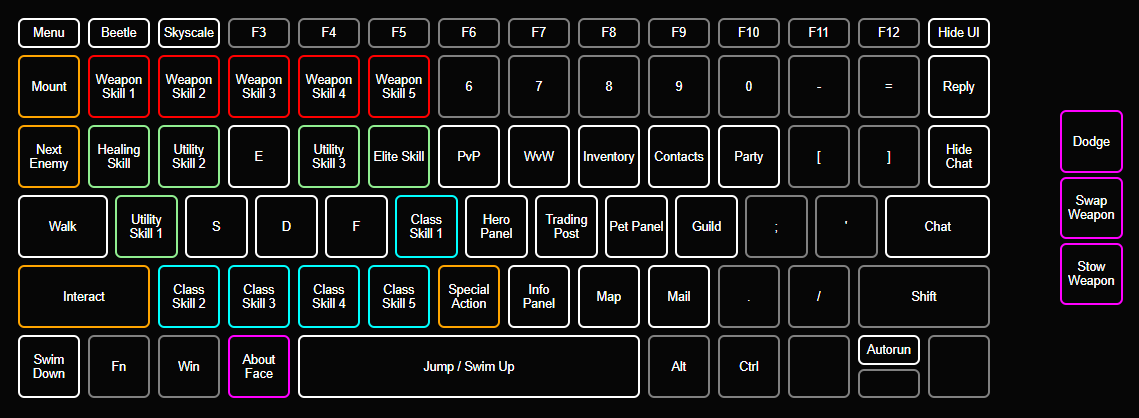
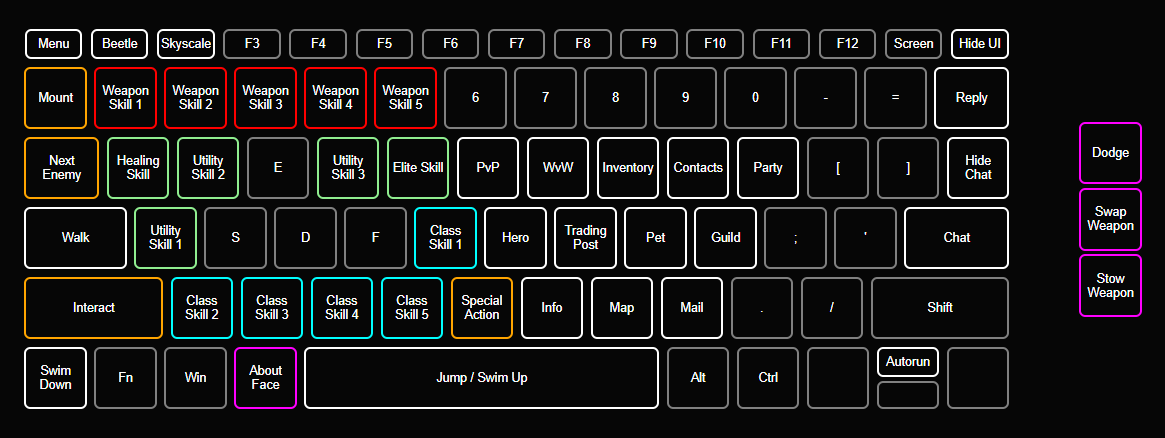
Theme, Tab size, and Screen key

Changed region(s): [[0.0, 0.0311, 0.8911, 0.9641], [0.9219, 0.2488, 1.0, 0.7464], [0.7989, 0.6842, 0.8297, 0.7153]]

diff --git a/index.html b/index.html
@@ -27,6 +27,7 @@
                 <div class="key" id="f10" onclick="changeColor(this)">f10</div>
                 <div class="key" id="f11" onclick="changeColor(this)">f11</div>
                 <div class="key" id="f12" onclick="changeColor(this)">f12</div>
+                <div class="key" id="print-screen" onclick="changeColor(this)">screen</div>
                 <div class="key" id="del" onclick="changeColor(this)">del</div>
             </div>
 
@@ -119,7 +120,7 @@
         </div>
     </div>
 
-    <div id="palette">
+    <footer>
         <div class="row">
             <div class="control" id="red" onclick="setColor('red')"></div>
             <div class="control" id="orange" onclick="setColor('orange')"></div>
@@ -127,10 +128,12 @@
             <div class="control" id="green" onclick="setColor('lightgreen')"></div>
             <div class="control" id="blue" onclick="setColor('aqua')"></div>
             <div class="control" id="pink" onclick="setColor('fuchsia')"></div>
-            <div class="control" id="white" onclick="setColor('white')"></div>
+            <div class="control" id="white" onclick="setAccentColor()"></div>
             <div class="control" onclick="resetColor()"></div>
             <div class="control" onclick="textModeOn()">a</div>
         </div>
+
+        <div class="control button" id="button-theme" onclick="switchTheme()">Theme</div>
     </div>
 </body>
 </html>

diff --git a/logic.js b/logic.js
@@ -1,7 +1,16 @@
 var defaultColor = 'gray';
 var color = defaultColor;
 
+
 var textModeEnabled = false;
+
+
+var backgroundDark = '#060606';
+var backgroundLight = '#e4d8ce';
+
+var themeDark = 'dark';
+var themeLight = 'light';
+var theme = themeDark;
 
 
 function changeColor(element) {
@@ -27,8 +36,16 @@ function changeColor(element) {
 
 function setColor(newColor) {
     color = newColor;
-    textModeEnabled = false;
     textModeOff();
+}
+
+
+function setAccentColor() {
+    if (theme == themeDark) {
+        color = 'white';
+    } else {
+        color = 'black';
+    }
 }
 
 
@@ -45,4 +62,27 @@ function textModeOn() {
 
 function textModeOff() {
     textModeEnabled = false;
+}
+
+
+function switchTheme() {
+    if (theme == themeDark) {
+        theme = themeLight;
+
+        document.body.style.backgroundColor = backgroundLight;
+        changeColorAll('black');
+    } else {
+        theme = themeDark;
+
+        document.body.style.backgroundColor = backgroundDark;
+        changeColorAll('white');
+    }
+}
+
+
+function changeColorAll(color) {
+    var all = document.getElementsByTagName("*");
+    for (var i = 0, max = all.length; i < max; i++) {
+        all[i].style.color = color;
+    }
 }

diff --git a/style.css b/style.css
@@ -28,6 +28,7 @@ body {
 
 .row {
     display: flex;
+    justify-content: space-around;
 }
 
 .key, .control {
@@ -50,27 +51,40 @@ body {
 }
 #top-row .key {
     height: 24px;
+    width: 46px;
 }
 .control {
     height: 40px;
     width: 40px;
 }
 
+footer {
+    display: flex;
+    flex-direction: column;
+    align-items: center;
+}
+.button {
+    border: none;
+    width: fit-content;
+    height: fit-content;
+    padding: 5px;
+}
+
 /* Specific keys */
 #backspace, #tab {
-    width: 50px;
+    width: 60px;
 }
 #caps {
-    width: 72px;
+    width: 82px;
 }
 #enter {
     width: 84px;
 }
 #left-shift, #right-shift {
-    width: 106px;
+    width: 111px;
 }
 #space {
-    width: 274px;
+    width: 284px;
 }
 #up-arrow {
     height: 24px;
